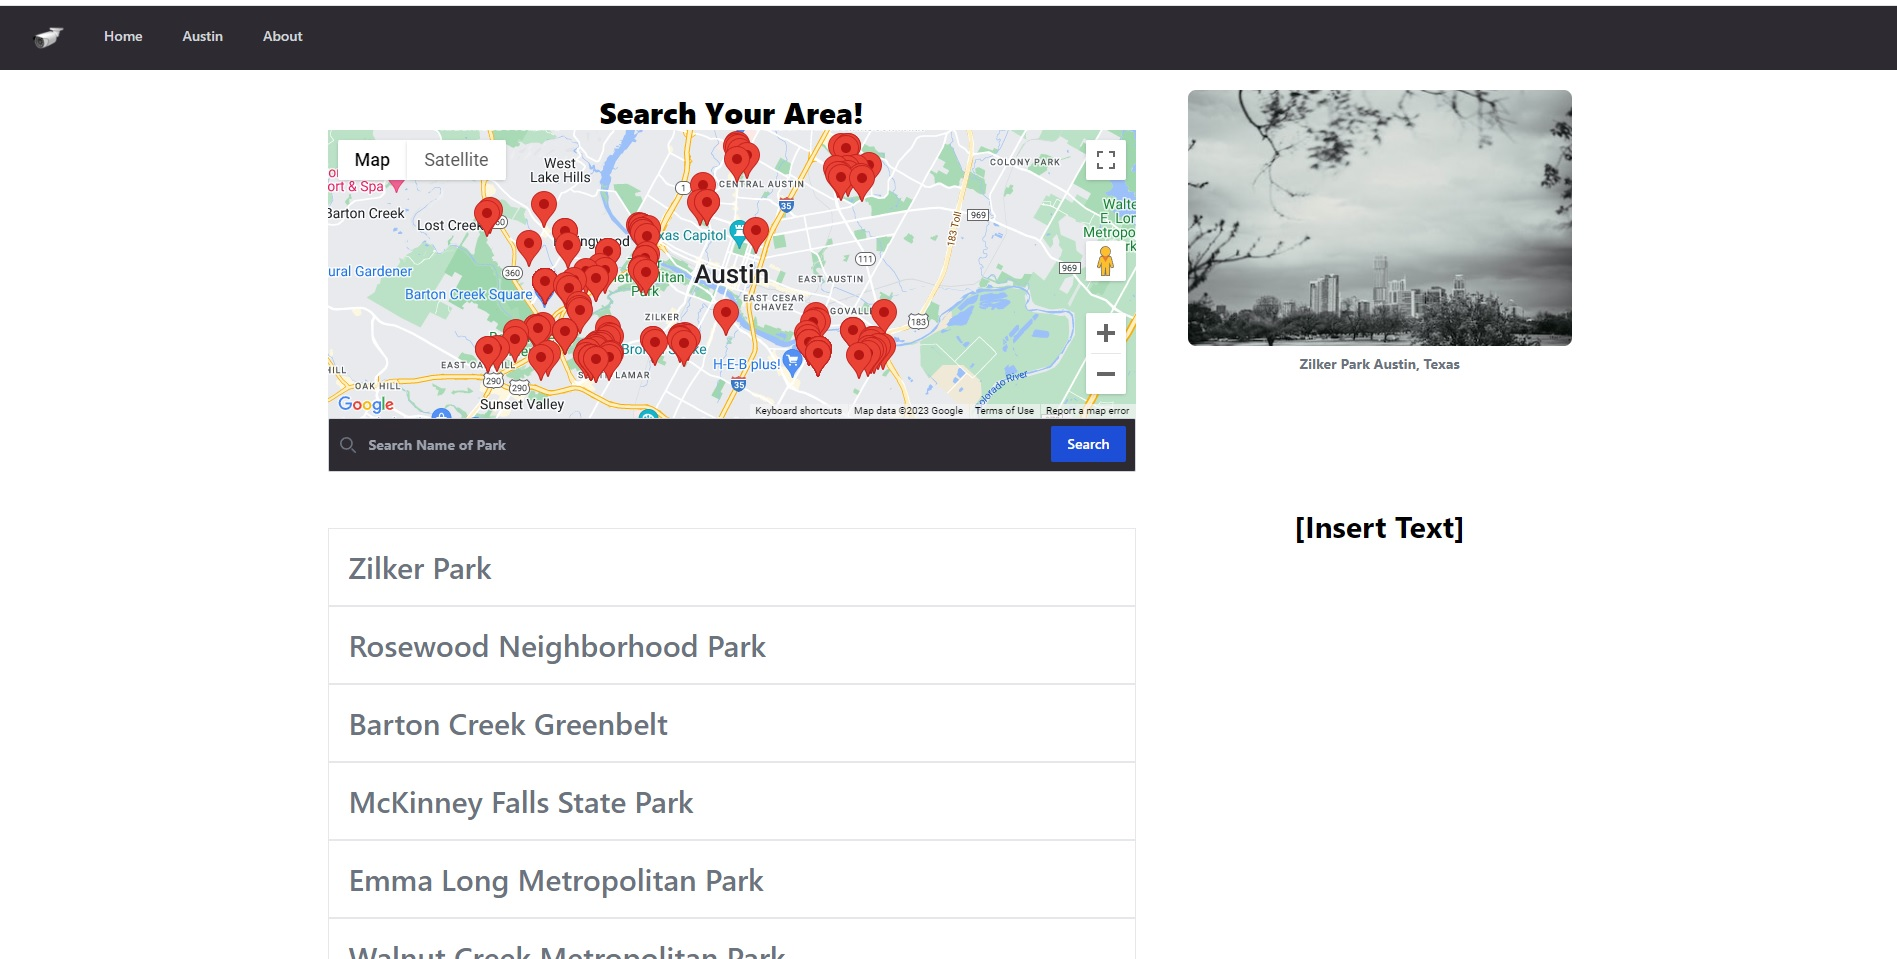
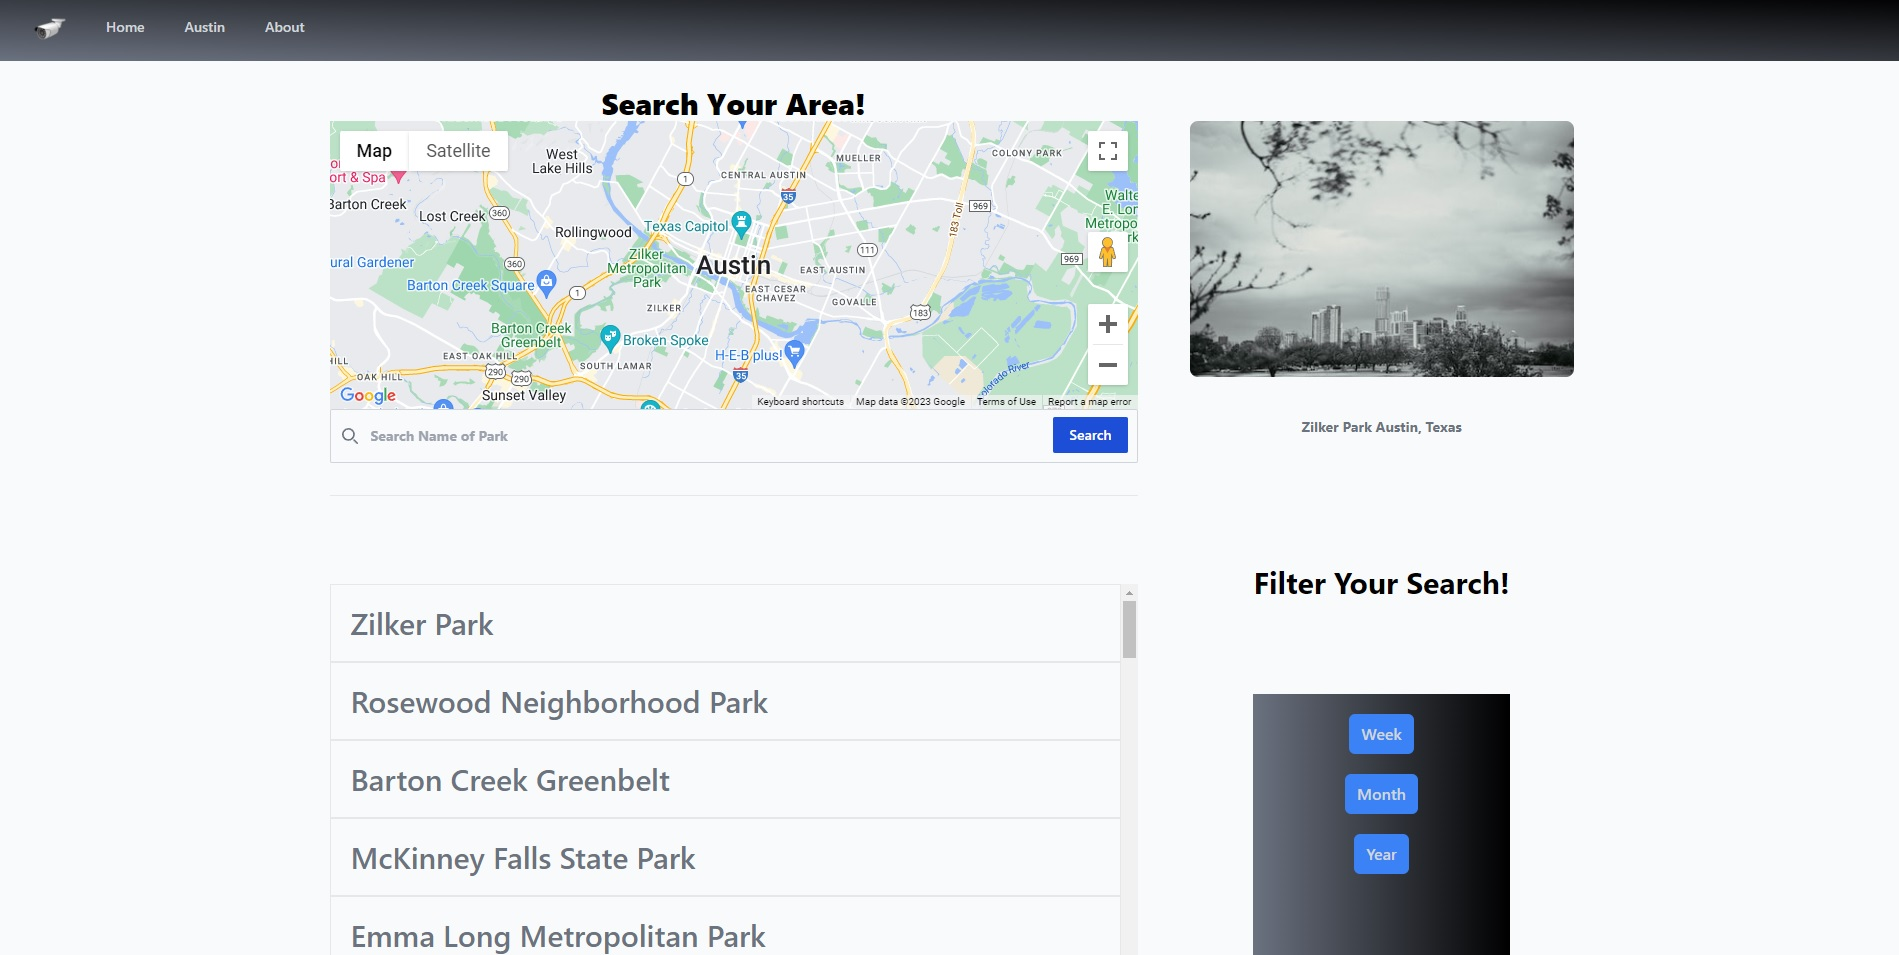
Fixed the README with the completed images

diff --git a/README.md b/README.md
@@ -21,13 +21,17 @@ You can also use the search function to search for names of parks to see if the 
 
 <img src="./assets/images/read-me-img3.jpg"/>
 
+You can use the "Filter Your Search" section at the bottom right in order to filter your search by crimes that have happened the past week, month, or year.
+
+<img src="./assets/images/read-me-img7.jpg"/>
+
 Clicking on the "Austin" tab above brings you to the official website of "The City of Austin" where you can get even more information about Austin!
 
 <img src="./assets/images/read-me-img5.jpg"/>
 
 Clicking on the "About" tab will tell you about our website and the goals we had when creating this website. At the bottom is an e-mail list that you can enter your e-mail in and be updated when we add more parks to the list or when the weekly police crime list has been released so the API data gets updated.
 
-(Picture Here Later)
+<img src="./assets/images/read-me-img6.jpg"/>
 
 NOTE: We are not saying that a park is dangerous based on our data. We are just giving the data that is on the Austin Police API based on the location. Bigger parks such as Zilker may have more crimes than other parks, but that is because it is the largest park in Austin so it covers more area.
 
@@ -41,7 +45,8 @@ You can download our repo from our repo page using the following command in git 
 
 or you can visit our page below
 
-https://liq543.github.io/Park-Safe/
+https://liq543.github.io/Park-Safe/ - Deploy Page
+
 
 ## Credits
 https://tailwindcss.com/docs/installation - Tailwind CSS
@@ -50,9 +55,11 @@ https://developers.google.com/maps - Google Maps API
 
 https://dev.socrata.com/foundry/data.austintexas.gov/fdj4-gpfu - Austin Police Reports API
 
-ChatGPT - Helped us save time with code dealing with other third party sources. Used it to help create our buttons to be formatted in the same as Tailwind, and used it to help with the search bar that we used fuse.js to help filter the search results.
-
 https://www.fusejs.io/ - Fuse.js
+
+https://unsplash.com/developers - Unisplash
+
+ChatGPT - Helped us save time with code dealing with other third party sources. Used it to help create our buttons to be formatted in the same as Tailwind, and used it to help with the search bar that we used fuse.js to help filter the search results.
 
 ## License
 
